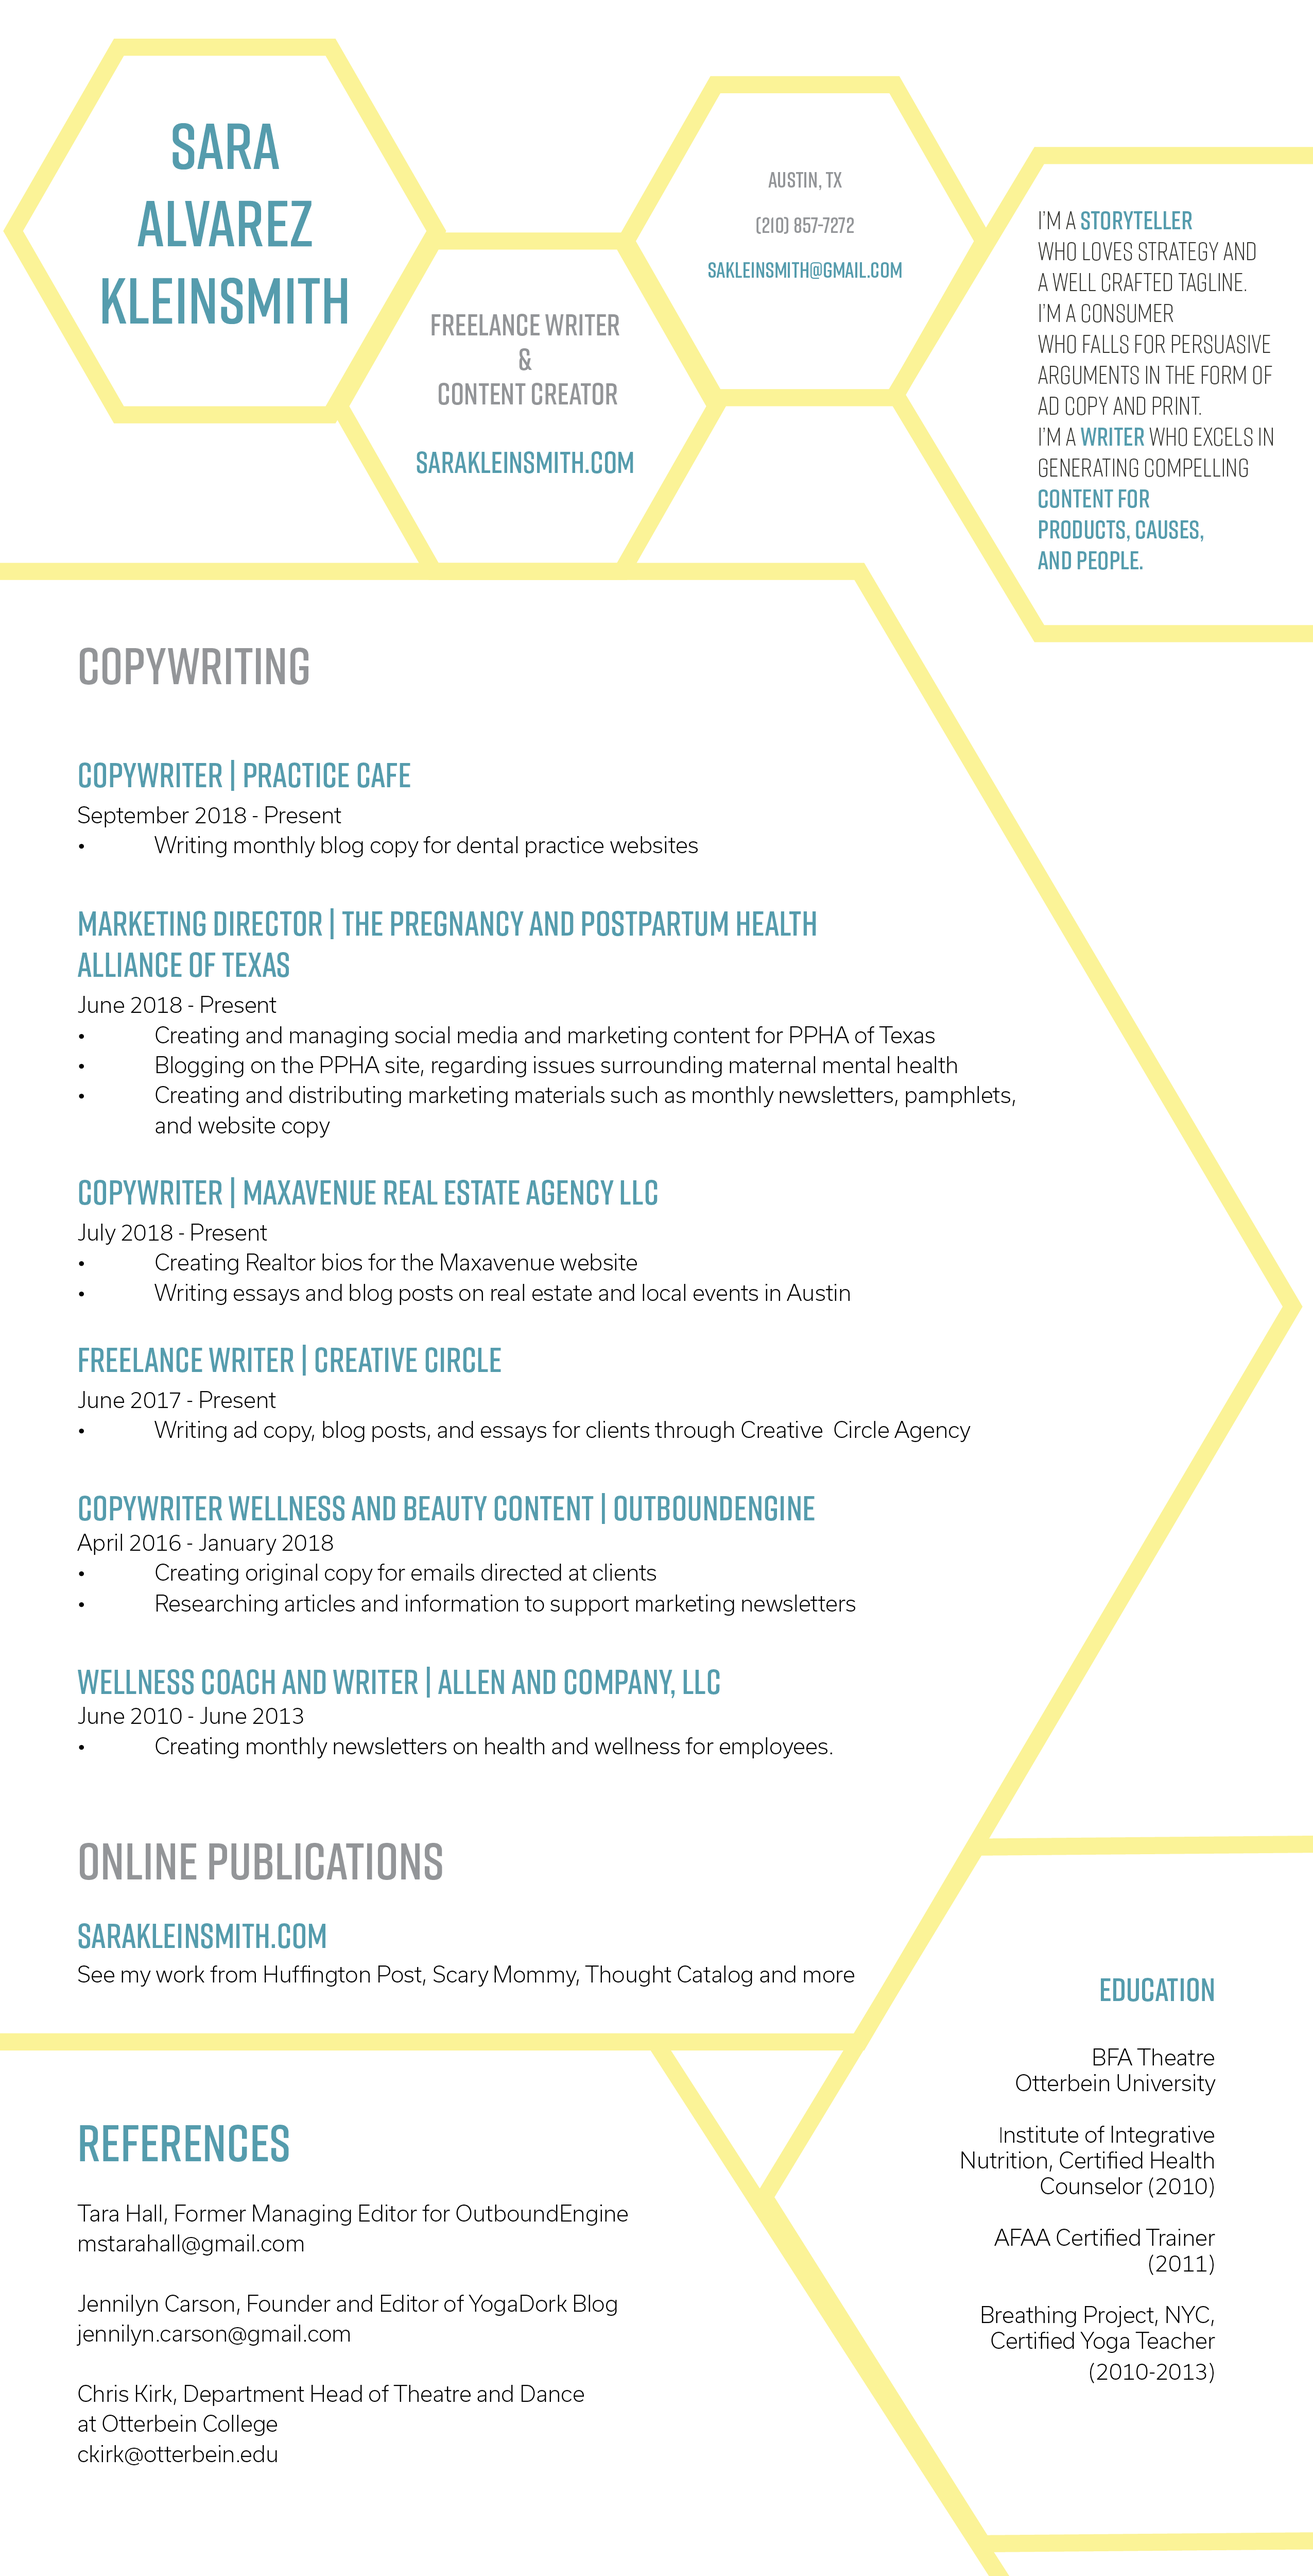
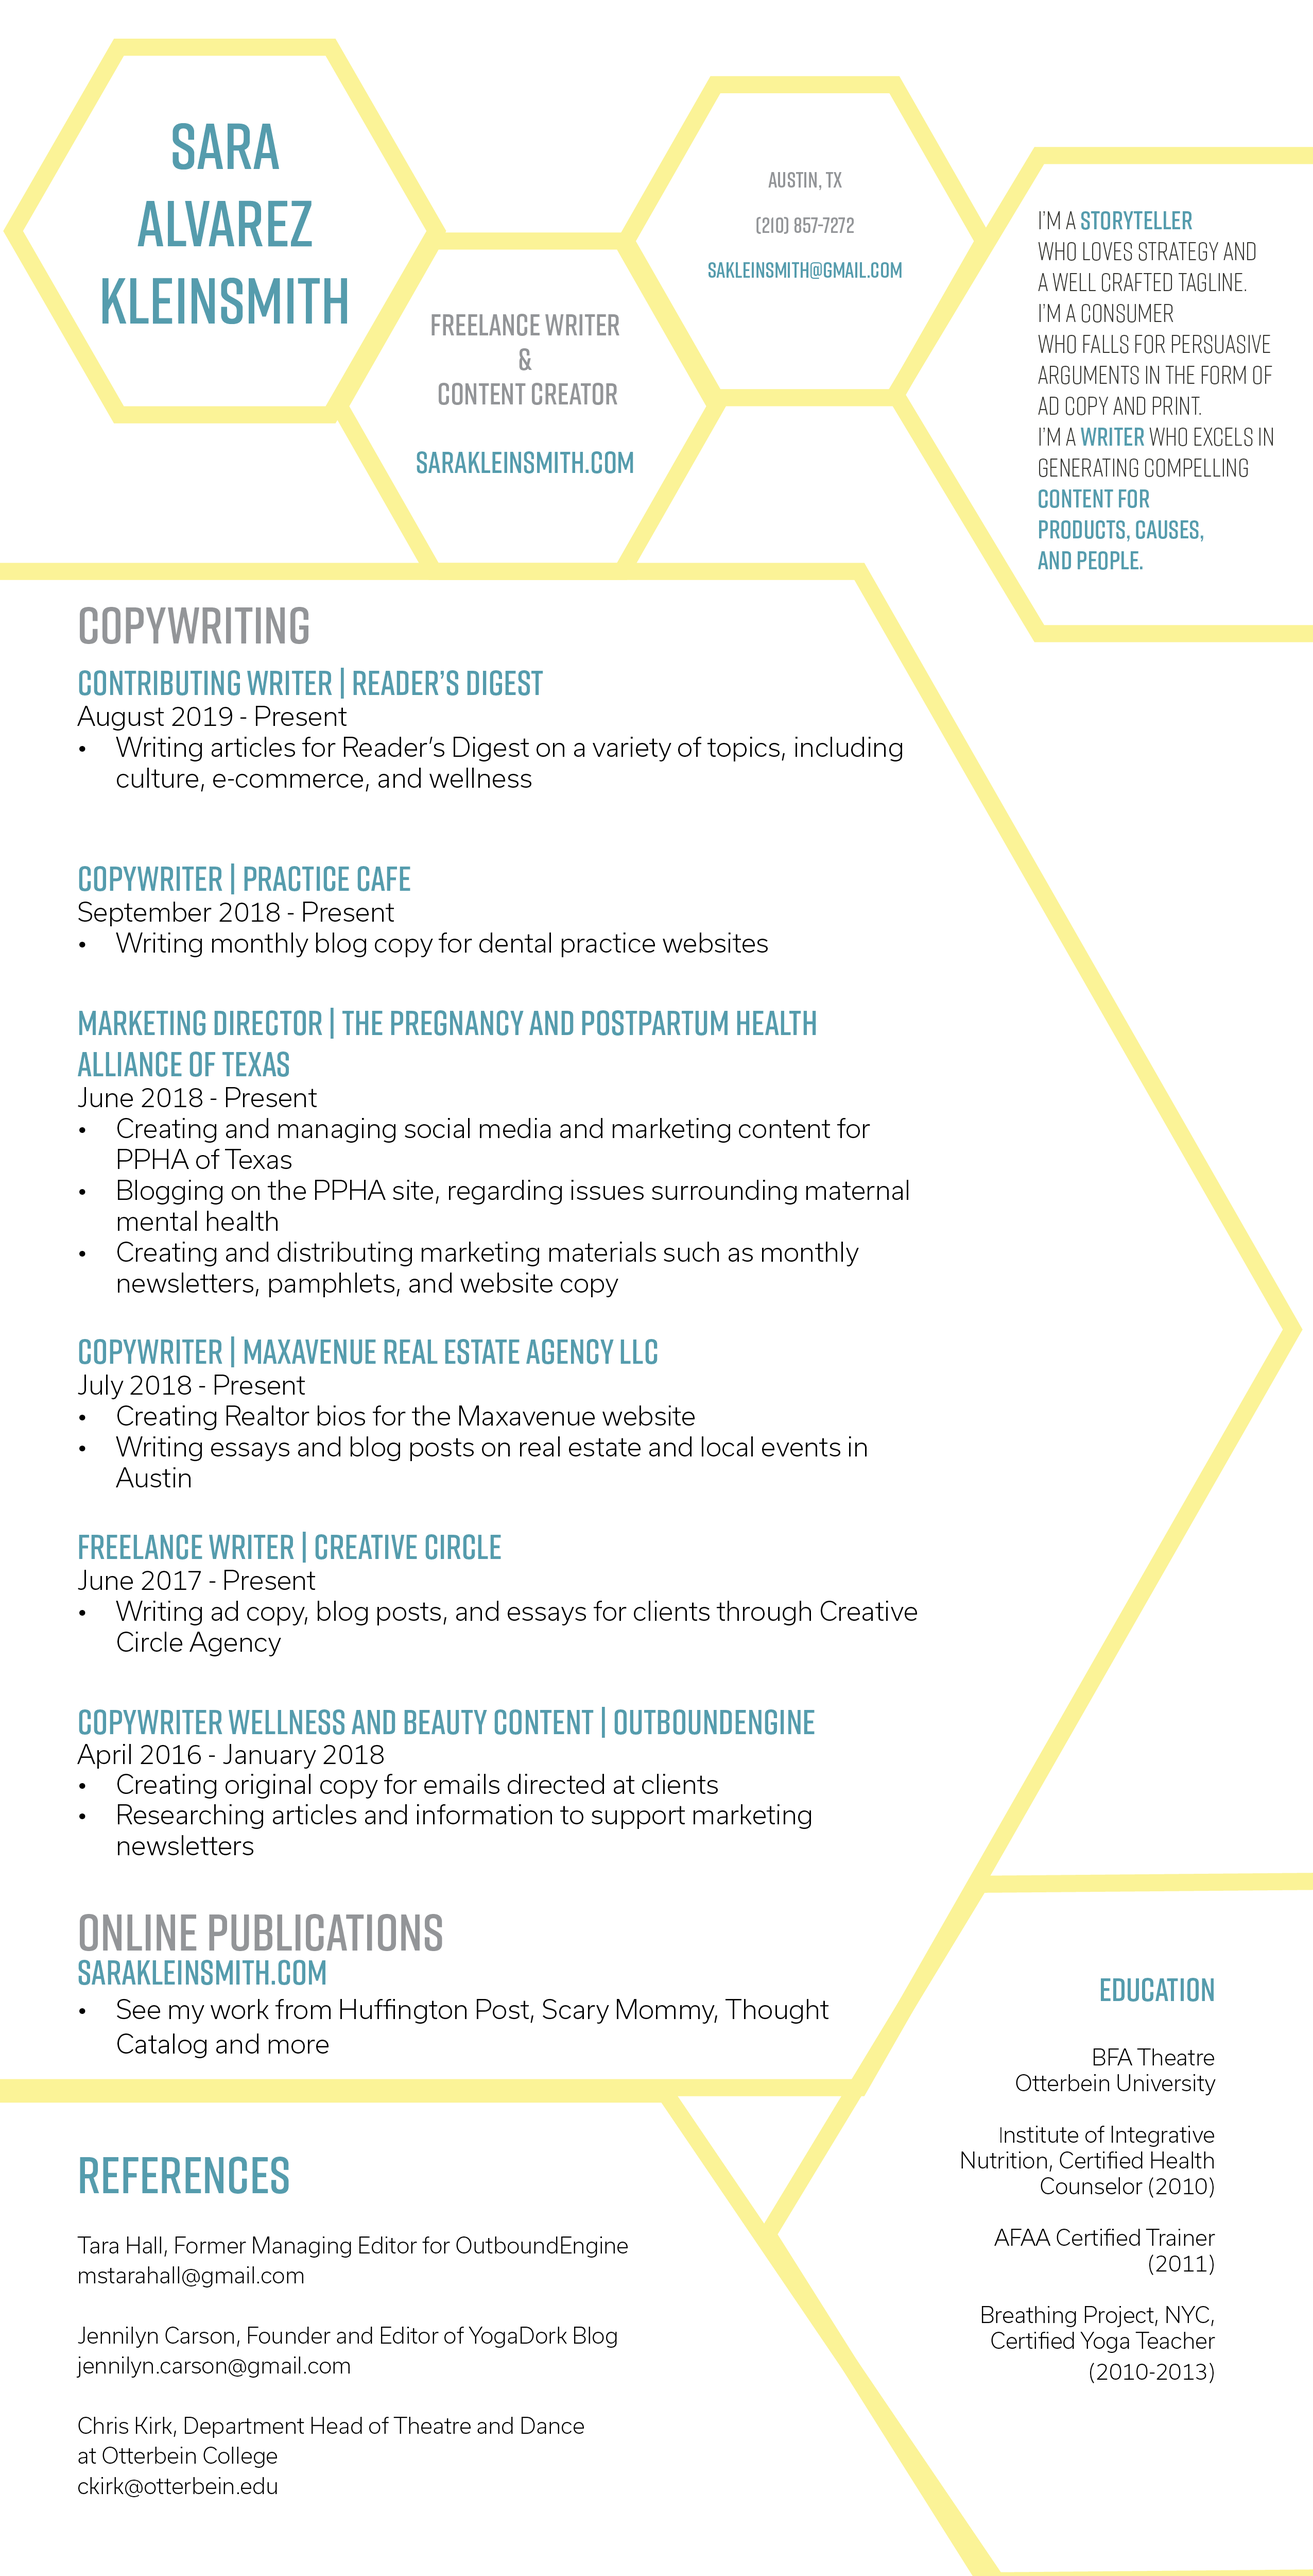
9.30

diff --git a/index.html b/index.html
@@ -158,6 +158,34 @@ and people. I have tremendous integrity and knowledge of <span id="buzz">perform
                     </div>
                 </div>
                 <div class="col-md-4 col-sm-6 portfolio-item">
+                    <a class="portfolio-link" data-toggle="modal" href="#portfolioModal1.91">
+                        <div class="portfolio-hover">
+                            <div class="portfolio-hover-content">
+                                <i class="fa fa-plus fa-3x"></i>
+                            </div>
+                        </div>
+                        <img class="img-fluid" src="img/portfolio/1.91.jpg" alt="">
+                    </a>
+                    <div class="portfolio-caption">
+                        <h4>Trailblazing Hispanic Americans Who Made History</h4>
+                        <p class="text-muted">Contributing Writer, Reader's Digest</p>
+                    </div>
+                </div>
+                <div class="col-md-4 col-sm-6 portfolio-item">
+                    <a class="portfolio-link" data-toggle="modal" href="#portfolioModal1.92">
+                        <div class="portfolio-hover">
+                            <div class="portfolio-hover-content">
+                                <i class="fa fa-plus fa-3x"></i>
+                            </div>
+                        </div>
+                        <img class="img-fluid" src="img/portfolio/1.92.jpg" alt="">
+                    </a>
+                    <div class="portfolio-caption">
+                        <h4>13 Things You Never Knew Were Invented by Hispanic People</h4>
+                        <p class="text-muted">Contributing Writer, Reader's Digest</p>
+                    </div>
+                </div>
+                <div class="col-md-4 col-sm-6 portfolio-item">
                     <a class="portfolio-link" data-toggle="modal" href="#portfolioModal1.9">
                         <div class="portfolio-hover">
                             <div class="portfolio-hover-content">
@@ -1915,6 +1943,79 @@ Sometimes the only way we can get through intense moments of suffering is to jus
                                     <button class="btn btn-primary" data-dismiss="modal" type="button">
                                                                 <i class="fa fa-times"></i>
                                                                 See More Work</button>
+                            </div>
+                        </div>
+                    </div>
+                </div>
+            </div>
+        </div>
+    </div>
+
+    <!-- Model 1.91 -->
+    <div class="portfolio-modal modal fade" id="portfolioModal1.91" tabindex="-1" role="dialog" aria-hidden="true">
+        <div class="modal-dialog">
+            <div class="modal-content">
+                <div class="close-modal" data-dismiss="modal">
+                    <div class="lr">
+                        <div class="rl"></div>
+                    </div>
+                </div>
+                <div class="container">
+                    <div class="row">
+                        <div class="col-lg-8 mx-auto">
+                            <div class="modal-body">
+                                <!-- Project Details Go Here -->
+                                <h2>Trailblazing Hispanic Americans Who Made History
+</h2>
+ <p class="item-intro text-muted"><a target="_blank" href="https://www.rd.com/culture/hispanic-americans-who-made-history/">See it live on Reader's Digest.</p></a>
+
+                                <img class="img-fluid d-block mx-auto" src="img/portfolio/1.91.jpg" alt="">
+
+                                      <a href "https://www.rd.com/culture/hispanic-americans-who-made-history/">Read my article on Reader's Digest</a>
+                                      <ul class="list-inline">
+                                          <li>Date: September 2019</li>
+                                          <li>Client: Reader's Digest</li>
+                                      </ul>
+
+                                <button class="btn btn-primary" data-dismiss="modal" type="button">
+                    <i class="fa fa-times"></i>
+                    See More Work</button>
+                            </div>
+                        </div>
+                    </div>
+                </div>
+            </div>
+        </div>
+    </div>
+    <!-- Modal 1.92 -->
+    <div class="portfolio-modal modal fade" id="portfolioModal1.92" tabindex="-1" role="dialog" aria-hidden="true">
+        <div class="modal-dialog">
+            <div class="modal-content">
+                <div class="close-modal" data-dismiss="modal">
+                    <div class="lr">
+                        <div class="rl"></div>
+                    </div>
+                </div>
+                <div class="container">
+                    <div class="row">
+                        <div class="col-lg-8 mx-auto">
+                            <div class="modal-body">
+                                <!-- Project Details Go Here -->
+                                <h2>13 Things You Never Knew Were Invented by Hispanic People
+</h2>
+ <p class="item-intro text-muted"><a target="_blank" href="https://www.rd.com/culture/things-invented-by-hispanic-people/">See it live on Reader's Digest.</p></a>
+
+                                <img class="img-fluid d-block mx-auto" src="img/portfolio/1.92.jpg" alt="">
+
+                                    <a href "https://www.rd.com/culture/hispanic-americans-who-made-history/">Read my article on Reader's Digest</a>
+                                      <ul class="list-inline">
+                                          <li>Date: September 2019</li>
+                                          <li>Client: Reader's Digest</li>
+                                      </ul>
+
+                                <button class="btn btn-primary" data-dismiss="modal" type="button">
+                    <i class="fa fa-times"></i>
+                    See More Work</button>
                             </div>
                         </div>
                     </div>
